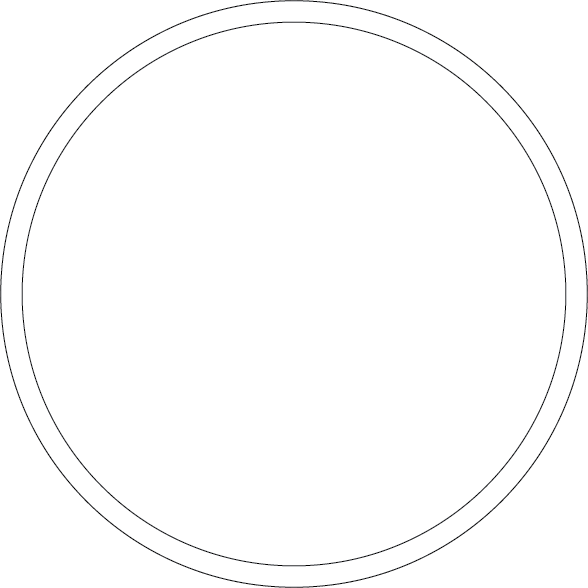
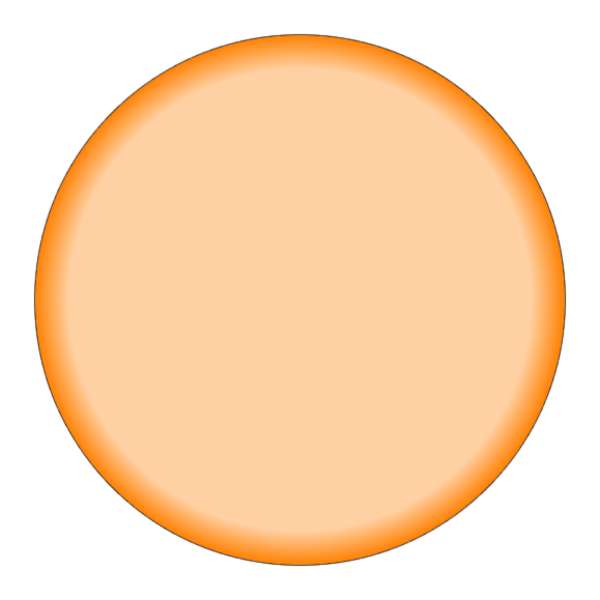
programming

diff --git a/pizza-maker/script.js b/pizza-maker/script.js
@@ -4,6 +4,11 @@ console.log("Page loaded!")
 // Knoppen die bestaan
 const thinCrustKnop = document.querySelector("button#thin-crust-button")
 const thickCrustKnop = document.querySelector("button#thick-crust-button")
+const marinaraKnop = document.querySelector("button#marinara-button")
+const chocolateKnop = document.querySelector("button#chocolate-button")
+const pepperoniKnop = document.querySelector("button#pepperoni-button")
+const pineappleKnop = document.querySelector("button#pineapple-button")
+
 
 // Img's die van de overview moeten veranderen
 const crustImg = document.querySelector("img#crust-img")
@@ -12,18 +17,42 @@ const crustImg = document.querySelector("img#crust-img")
 // Function die ervoor zorgt dat de thick crust naar thin verandert
 function selecteerThinCrust() {
     console.log("selecteerThinCrust()")
-    // crustImg.classList.add("disable");
     document.getElementById("crust-img").src = "img/thin-crust.png";
 }
 
 function selecteerThickCrust() {
     console.log("selecteerThickCrust()")
-    // crustImg.classList.remove("disable");
     document.getElementById("crust-img").src = "img/thick-crust.png";
+}
+
+function selecteerMarinara() {
+    console.log("selecteerMarinara()")
+    document.getElementById("sauce-img").src = "img/marinara.png";
+}
+
+function selecteerChocolate() {
+    console.log("selecteerChocolate()")
+    document.getElementById("sauce-img").src = "img/chocolate.png";
+}
+
+function selecteerPepperoni() {
+    console.log("selecteerPepperoni()")
+    document.getElementById("topping-img").src = "img/pepperoni.png";
+}
+
+function selecteerPineapple() {
+    console.log("selecteerPineapple()")
+    document.getElementById("topping-img").src = "img/pineapple.png";
 }
 
 thinCrustKnop.addEventListener("click", selecteerThinCrust)
 thickCrustKnop.addEventListener("click", selecteerThickCrust)
+marinaraKnop.addEventListener("click", selecteerMarinara)
+chocolateKnop.addEventListener("click", selecteerChocolate)
+pepperoniKnop.addEventListener("click",  selecteerPepperoni)
+pineappleKnop.addEventListener("click", selecteerPineapple)
+
+
 
 
 

diff --git a/pizza-maker/index.html b/pizza-maker/index.html
@@ -35,8 +35,9 @@
                     </div>
             </section>
             <section class="overview-tab">
-                <img id="sauce-img" src="img/" alt="">
-                <img id="crust-img" src="img/thick-crust.png" alt="thin-crust" class="crust">
+                <img id="crust-img" src="img/thick-crust.png" alt="crust" class="crust">
+                <img id="topping-img" src="img/pepperoni.png" alt="topping" class="topping">
+                <img id="sauce-img" src="img/marinara.png" alt="sauce" class="sauce">
             </section>
         </section>
     </main>
